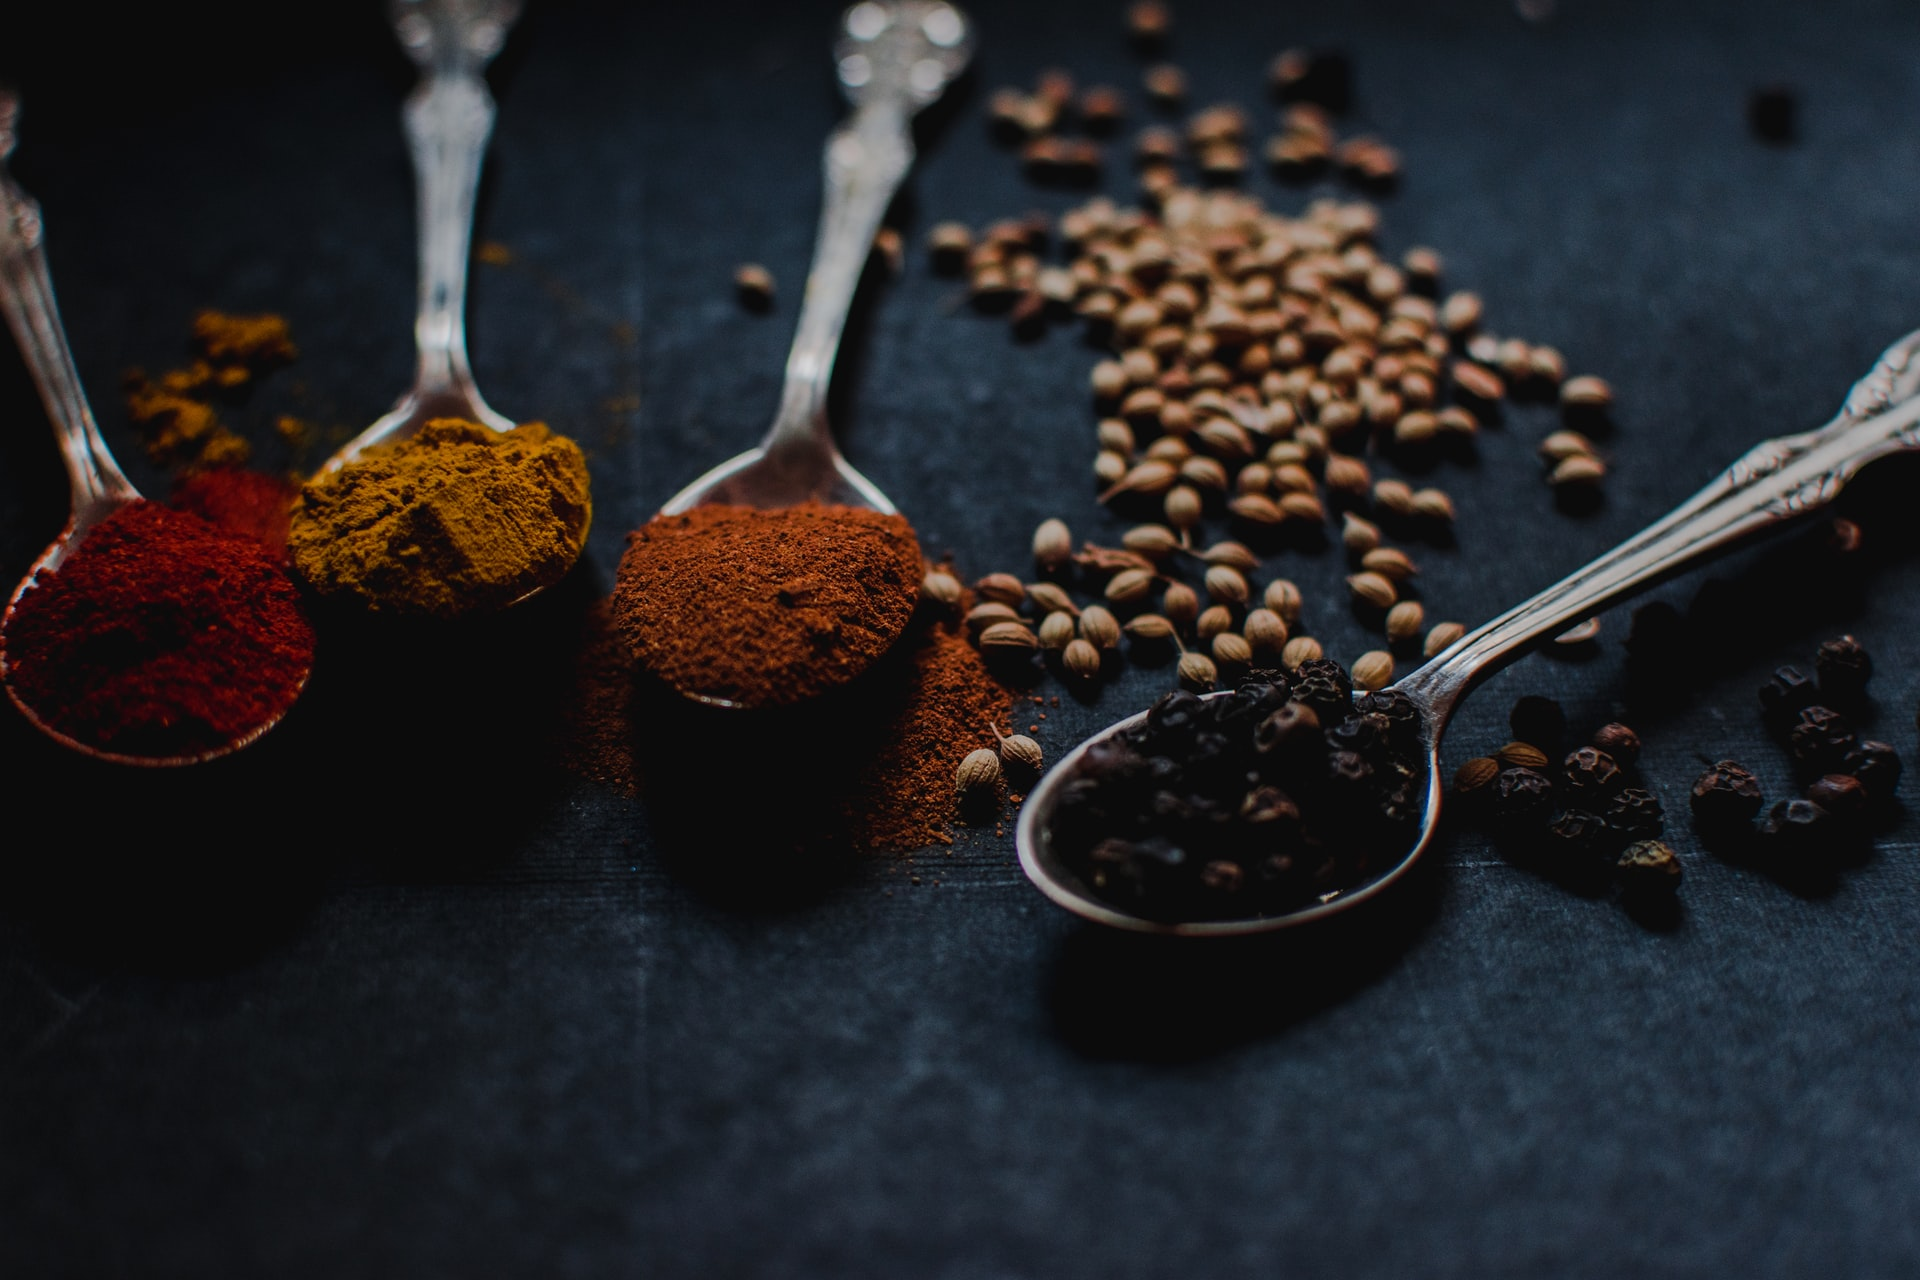
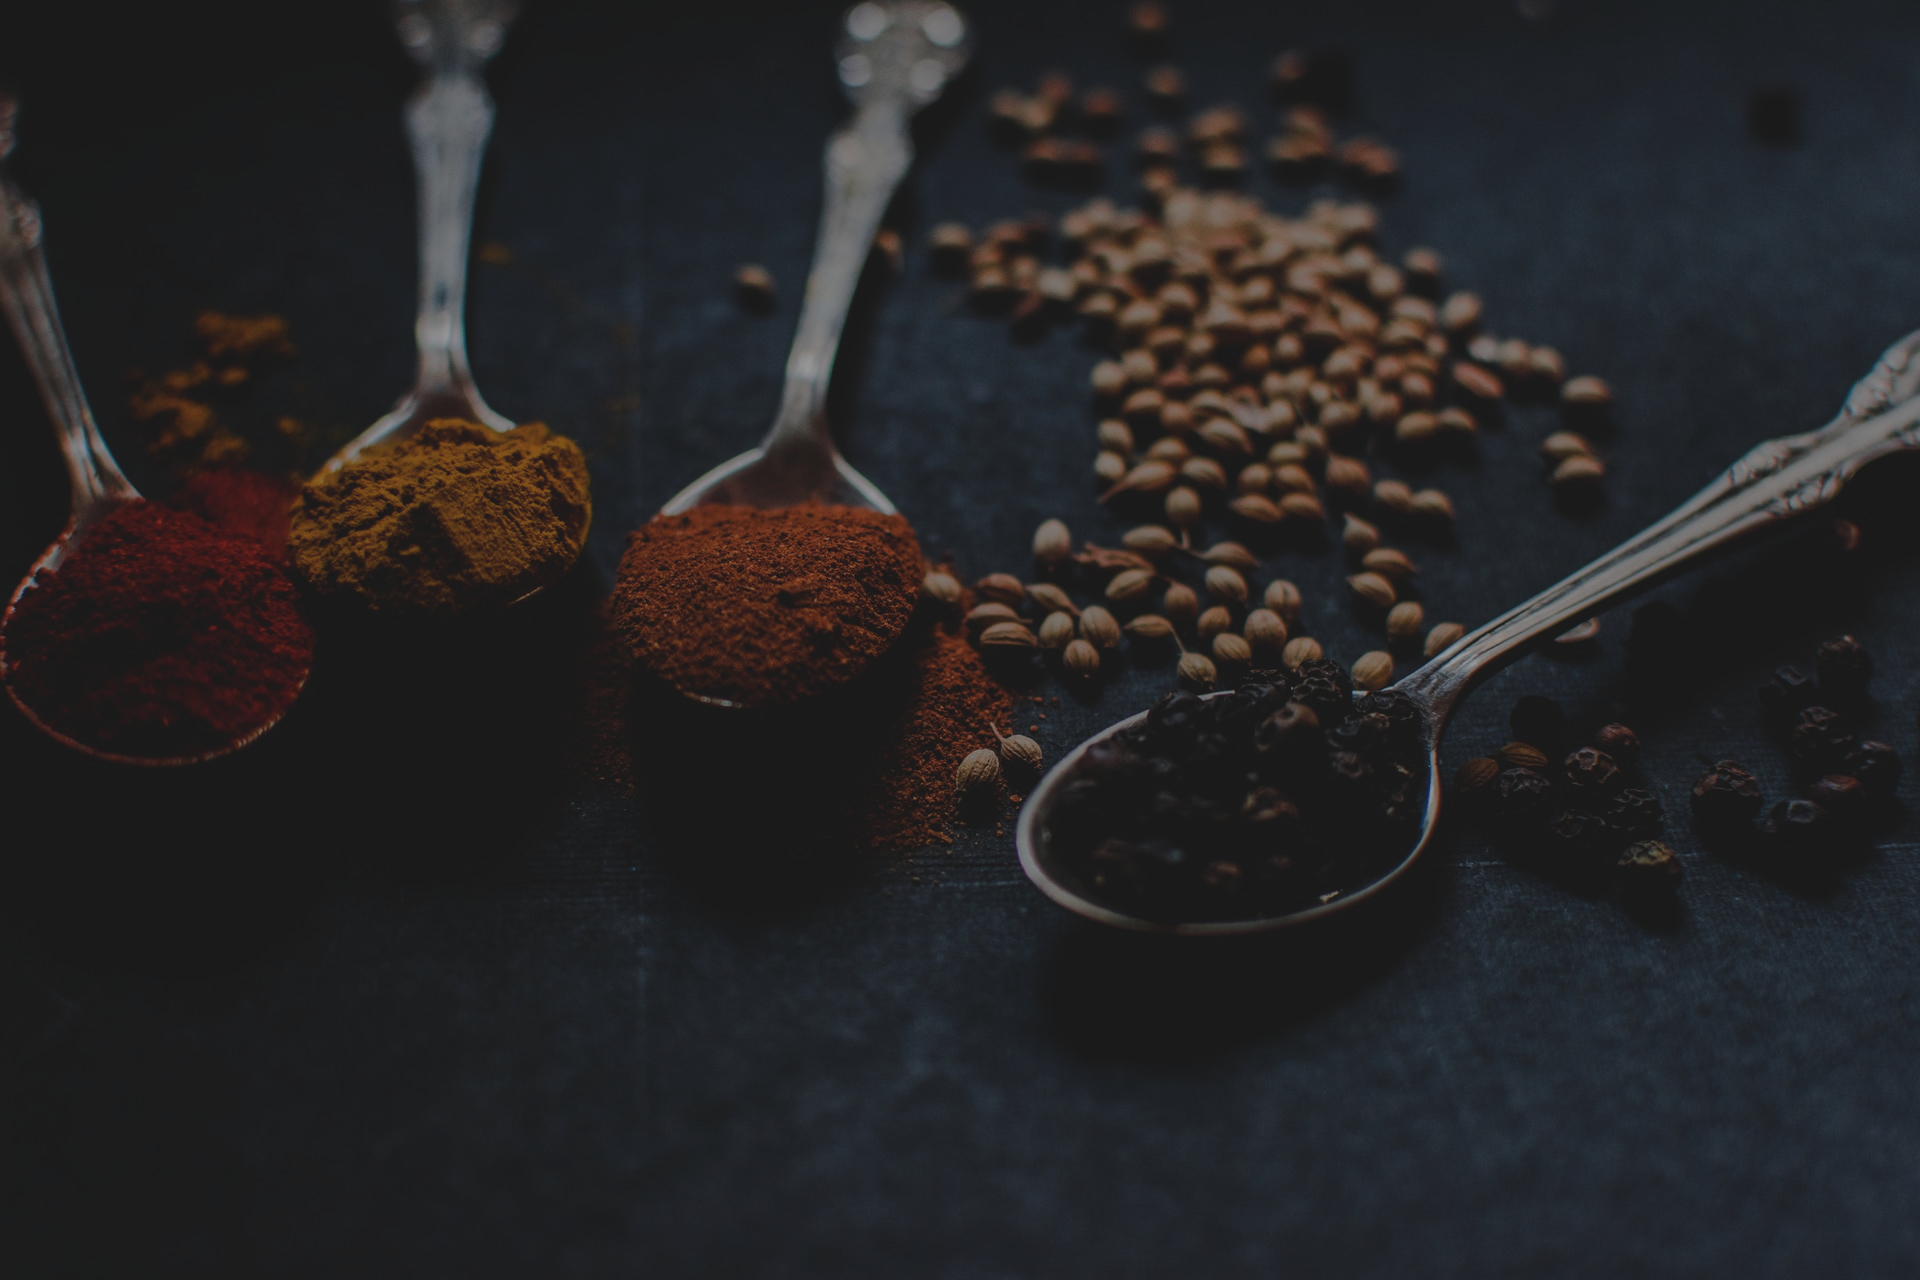
menambah text jumbotron

diff --git a/assets/css/style.css b/assets/css/style.css
@@ -18,7 +18,30 @@ header{
     height: 100vh;
     background: url(/assets/image/header.jpg) no-repeat 50% 50%;
     background-size: cover;
-    z-index: 999;
+    
+}
+.jumbotron{
+    color: white;
+    position: absolute;
+    top: 50%;
+    left: 50%;
+    transform: translate(-50%, -50%);
+    text-align: center;
+}
+.jumbotron h1{
+    font-size: 4rem;
+    margin: 0;
+}
+.jumbotron p{
+    font-size: 1.4rem;
+}
+.start{
+    text-decoration: none;
+    color: white;
+    border-radius: 20px;
+    padding: .5rem 1.7rem;
+    margin: 2rem 4rem;
+    background-color: #833111;
 }
 .content{
     width: 90%;
@@ -38,6 +61,7 @@ header{
 nav{
     position: fixed;
     width: 100%;
+    z-index: 999;
 }
 nav ul{
     list-style: none;

diff --git a/index.html b/index.html
@@ -13,6 +13,7 @@
     <div class="container">
         <!--Header-->
         <header>
+            <div class="black-screen"></div>
             <nav>
                 <div class="menu-icon">
                     <a href="#menu" class="icon-bar"> &#9776;</a>
@@ -28,6 +29,11 @@
                     </ul>
                 </div>
             </nav>
+            <div class="jumbotron">
+                <h1>WikiPanganan</h1>
+                <p>Tempat mengenal berbagai macam makanan dalam dan luar negeri</p>
+                <a href="#" class="start">Get Started</a>
+            </div>
         </header>
         
         <!--Main content-->
